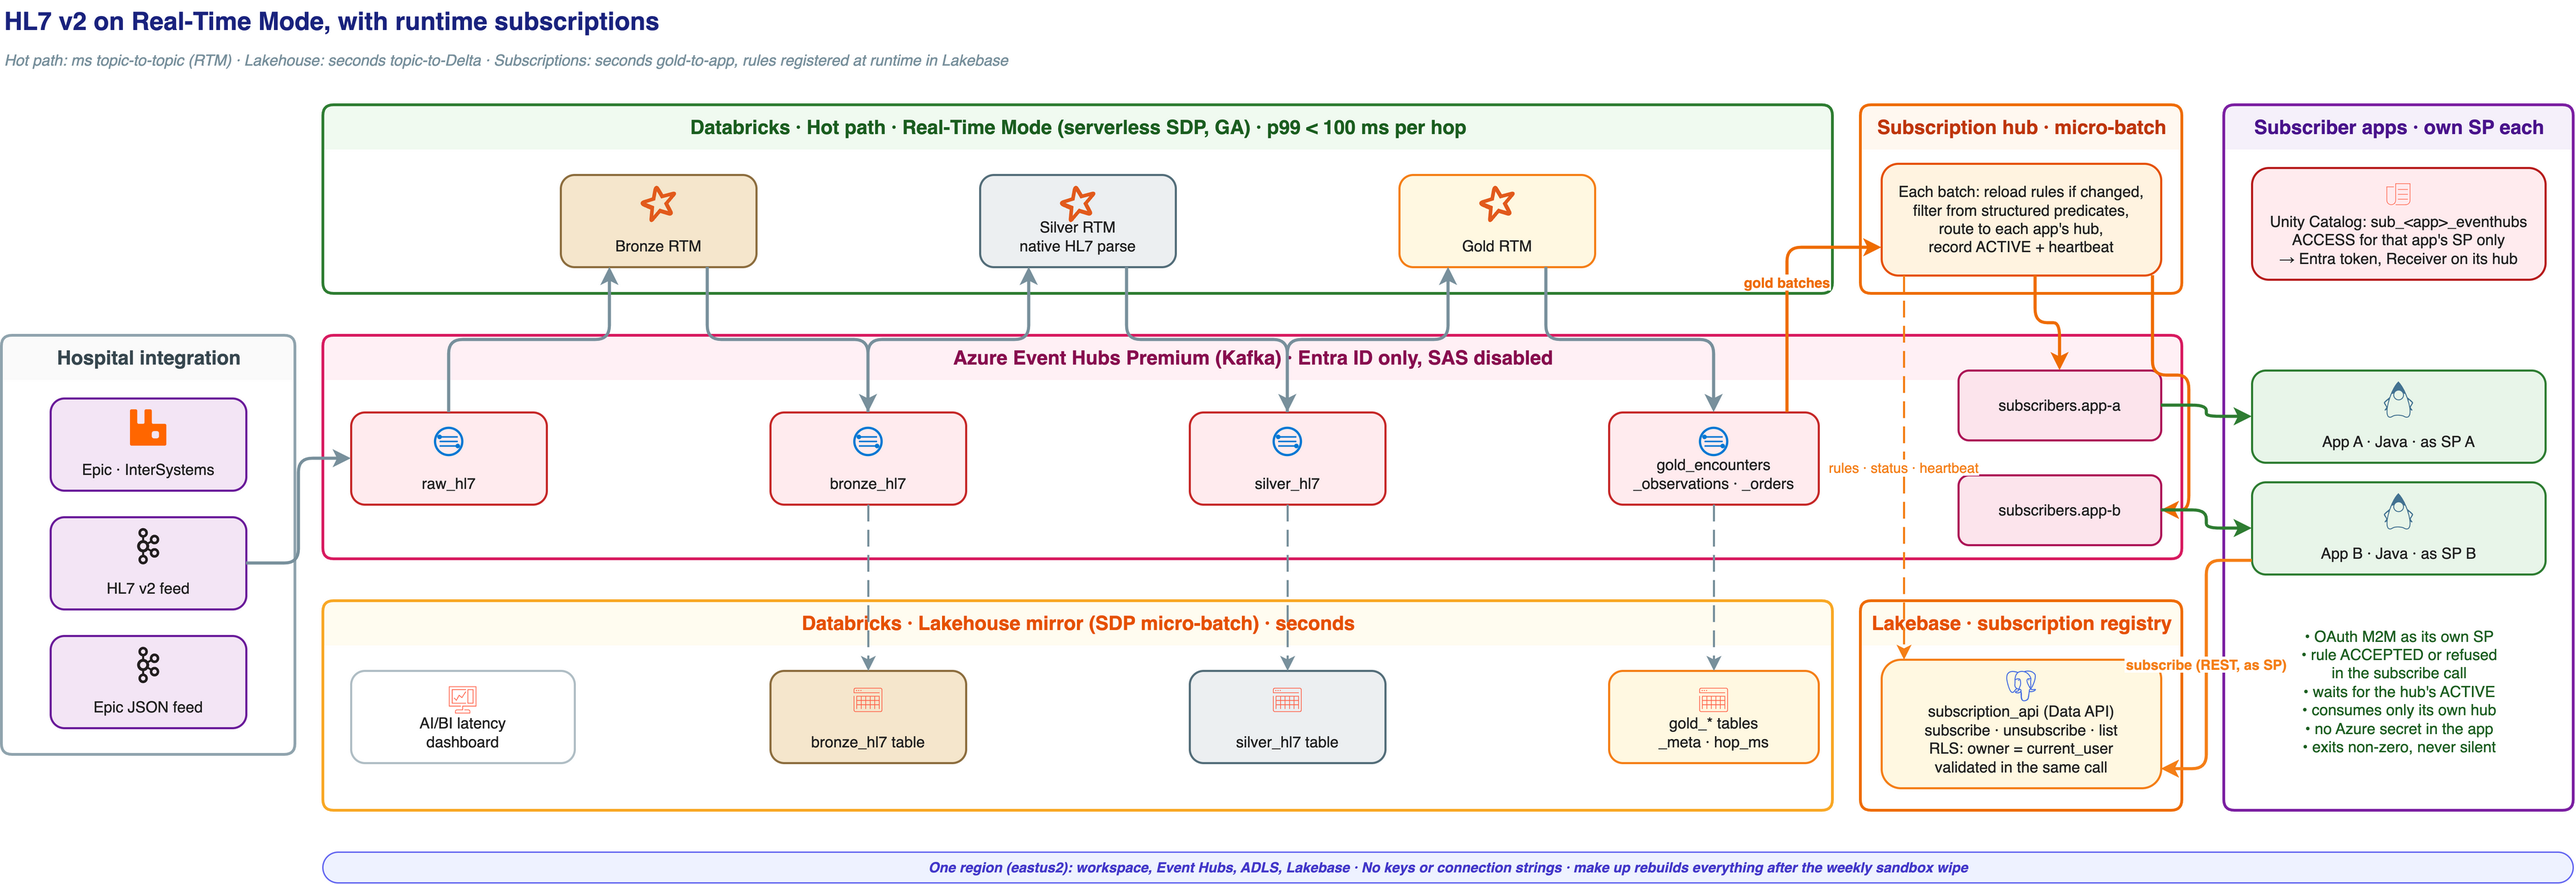
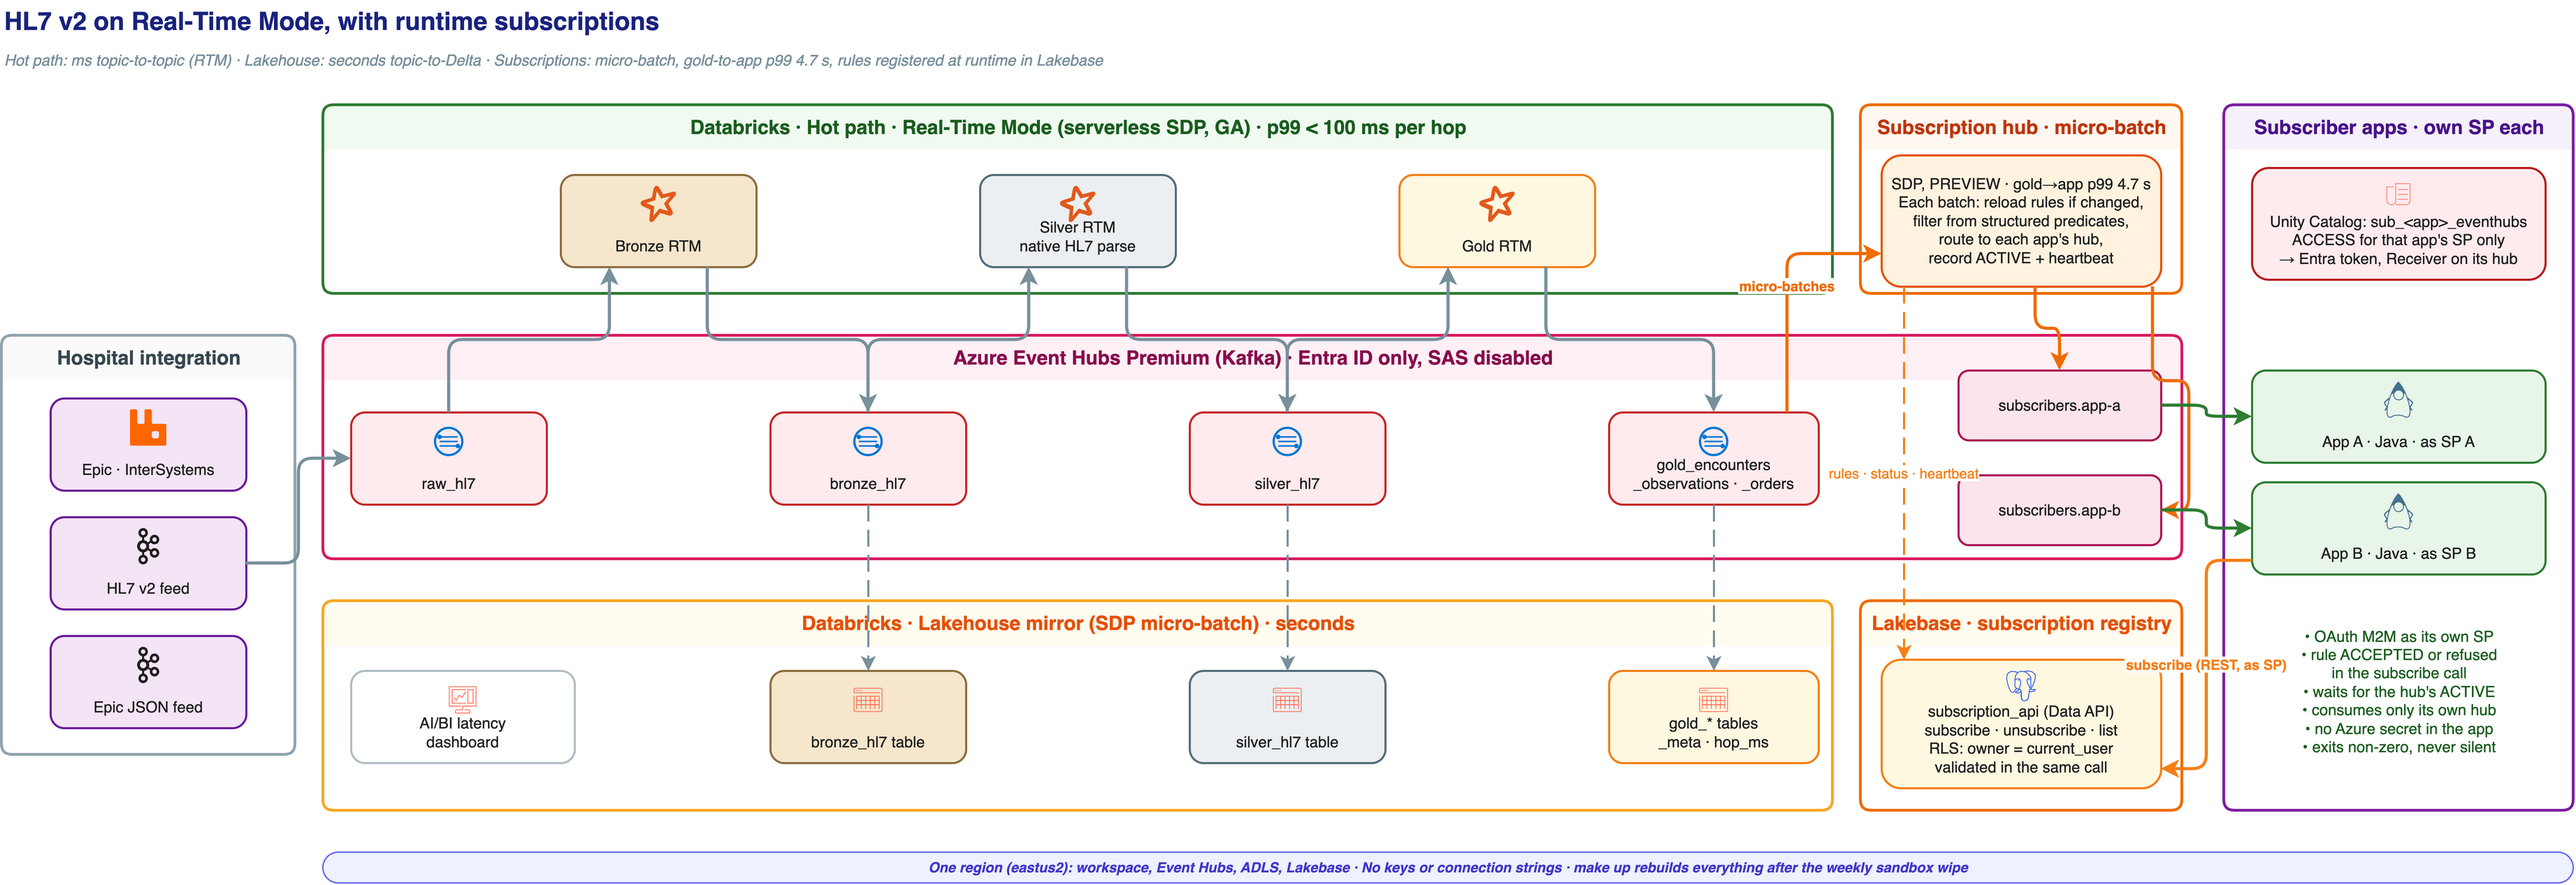
Subscriptions: measured gold-to-app latency (p99 4.7 s); diagram marks the hub as micro-batch

Changed region(s): [[0.6552, 0.1539, 0.8424, 0.3386], [0.2184, 0.0616, 0.4368, 0.0923], [0.7176, 0.5233, 0.78, 0.5541]]

diff --git a/docs/subscriptions.md b/docs/subscriptions.md
@@ -23,6 +23,11 @@ The hub runs micro-batches (seconds, not milliseconds): it needs `foreachBatch` 
 runtime, and Real-Time Mode doesn't support `foreachBatch`. `foreach_batch_sink` is Public Preview, so the hub runs
 on the PREVIEW channel. The RTM hot path is unchanged.
 
+**Measured (2026-11-05, one app, 1 rule, demo load, steady state):** the notification's broker time on the app's hub
+minus the gold record's broker time was p50 2.7 s, p99 4.7 s, max 5.2 s over 8,803 notifications in 15 minutes. From
+the raw HL7 topic to the app's hub it was p50 2.8 s and p99 4.8 s: the hot path adds well under 100 ms of that. Not
+included: the app's own poll after the record lands. Scale is untested: see [SCALABILITY.md](SCALABILITY.md).
+
 ## Security model
 
 | Layer | What enforces it |
